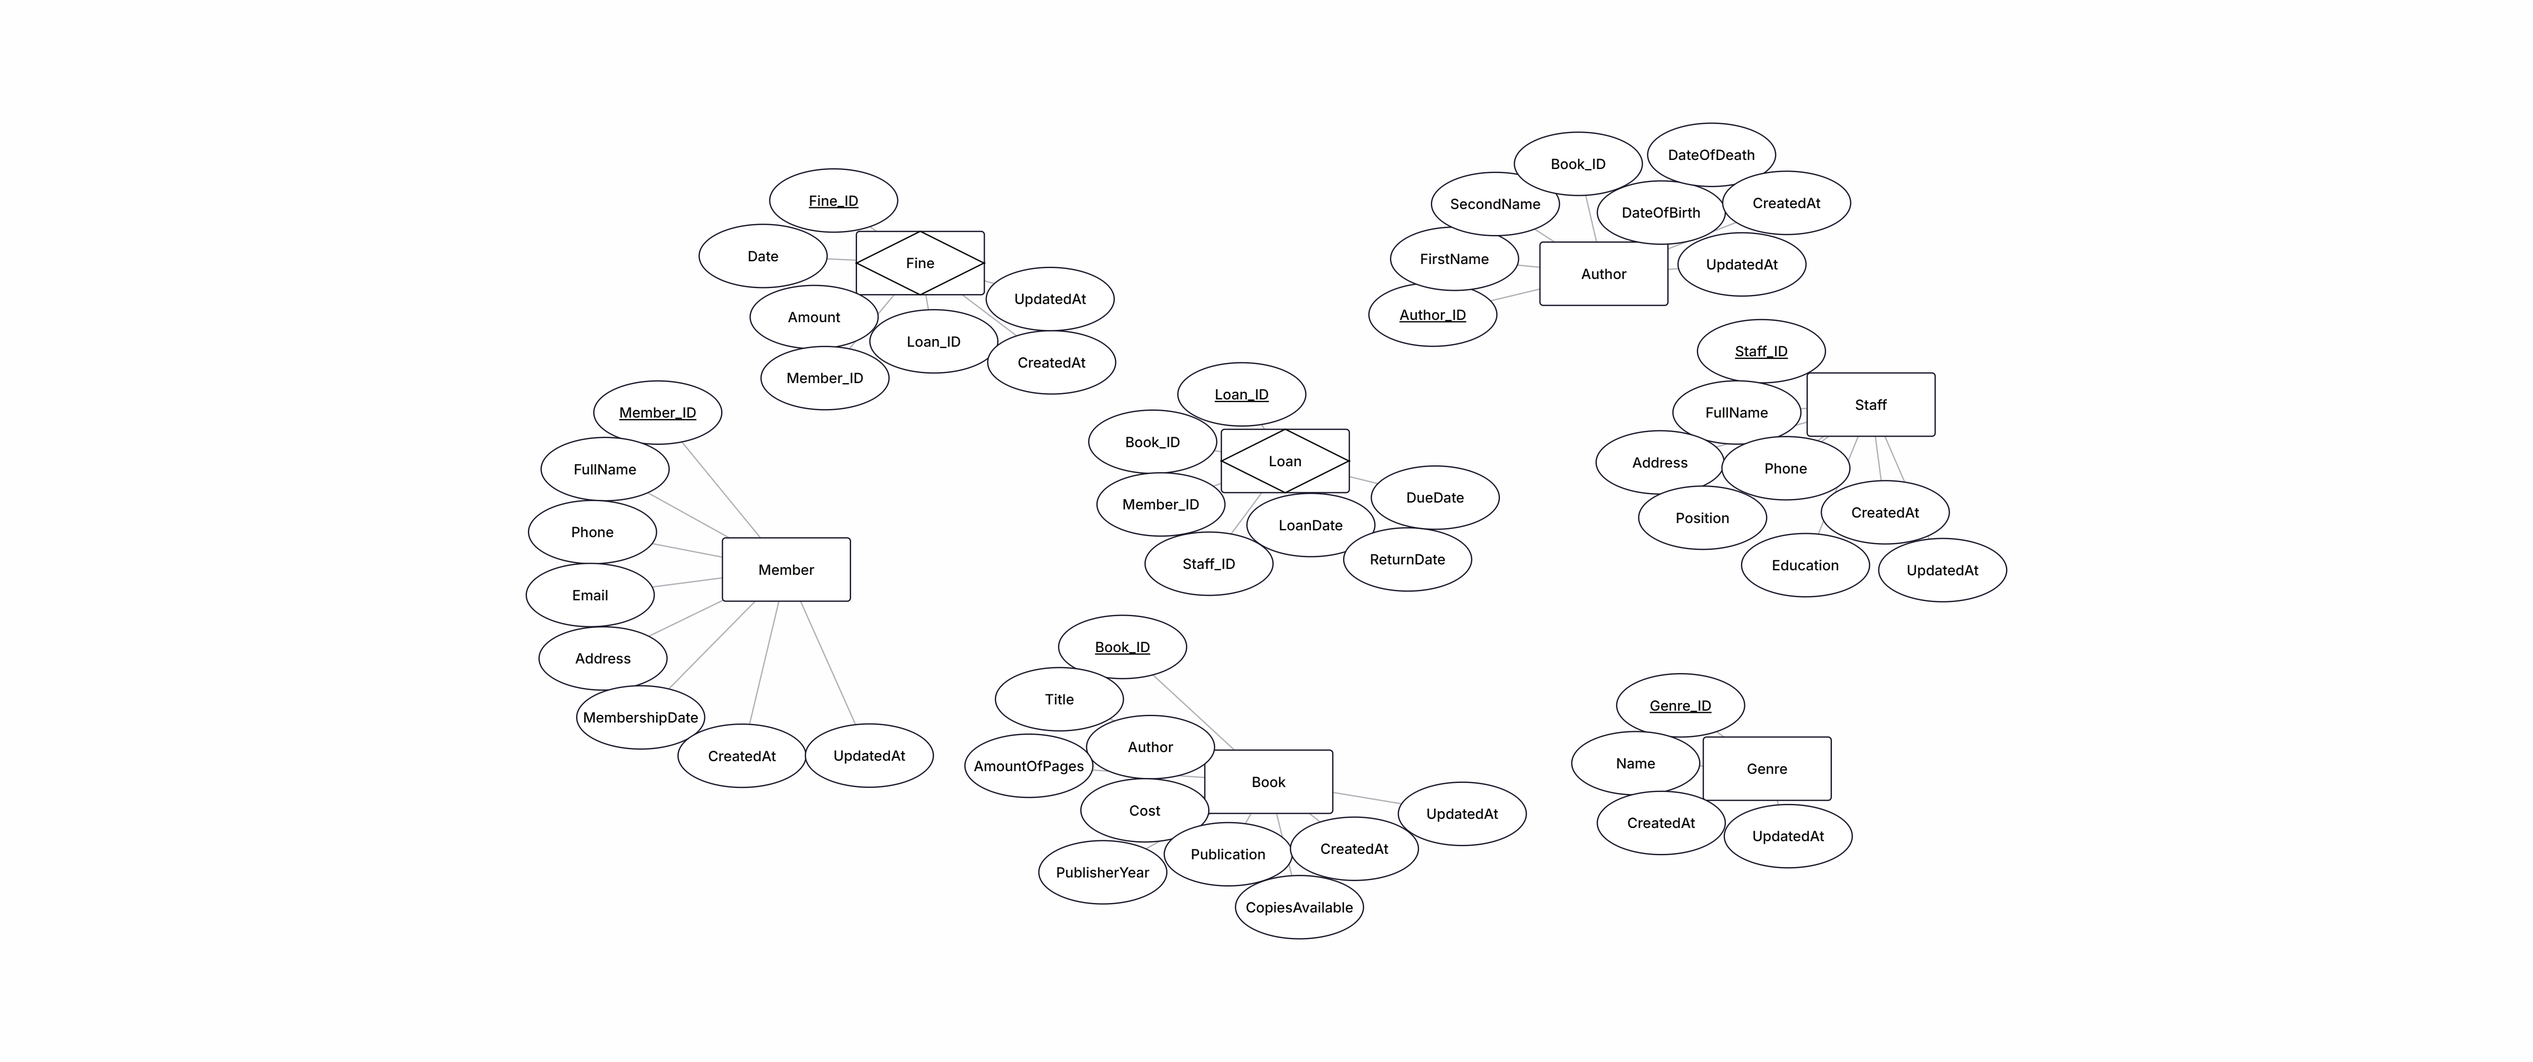
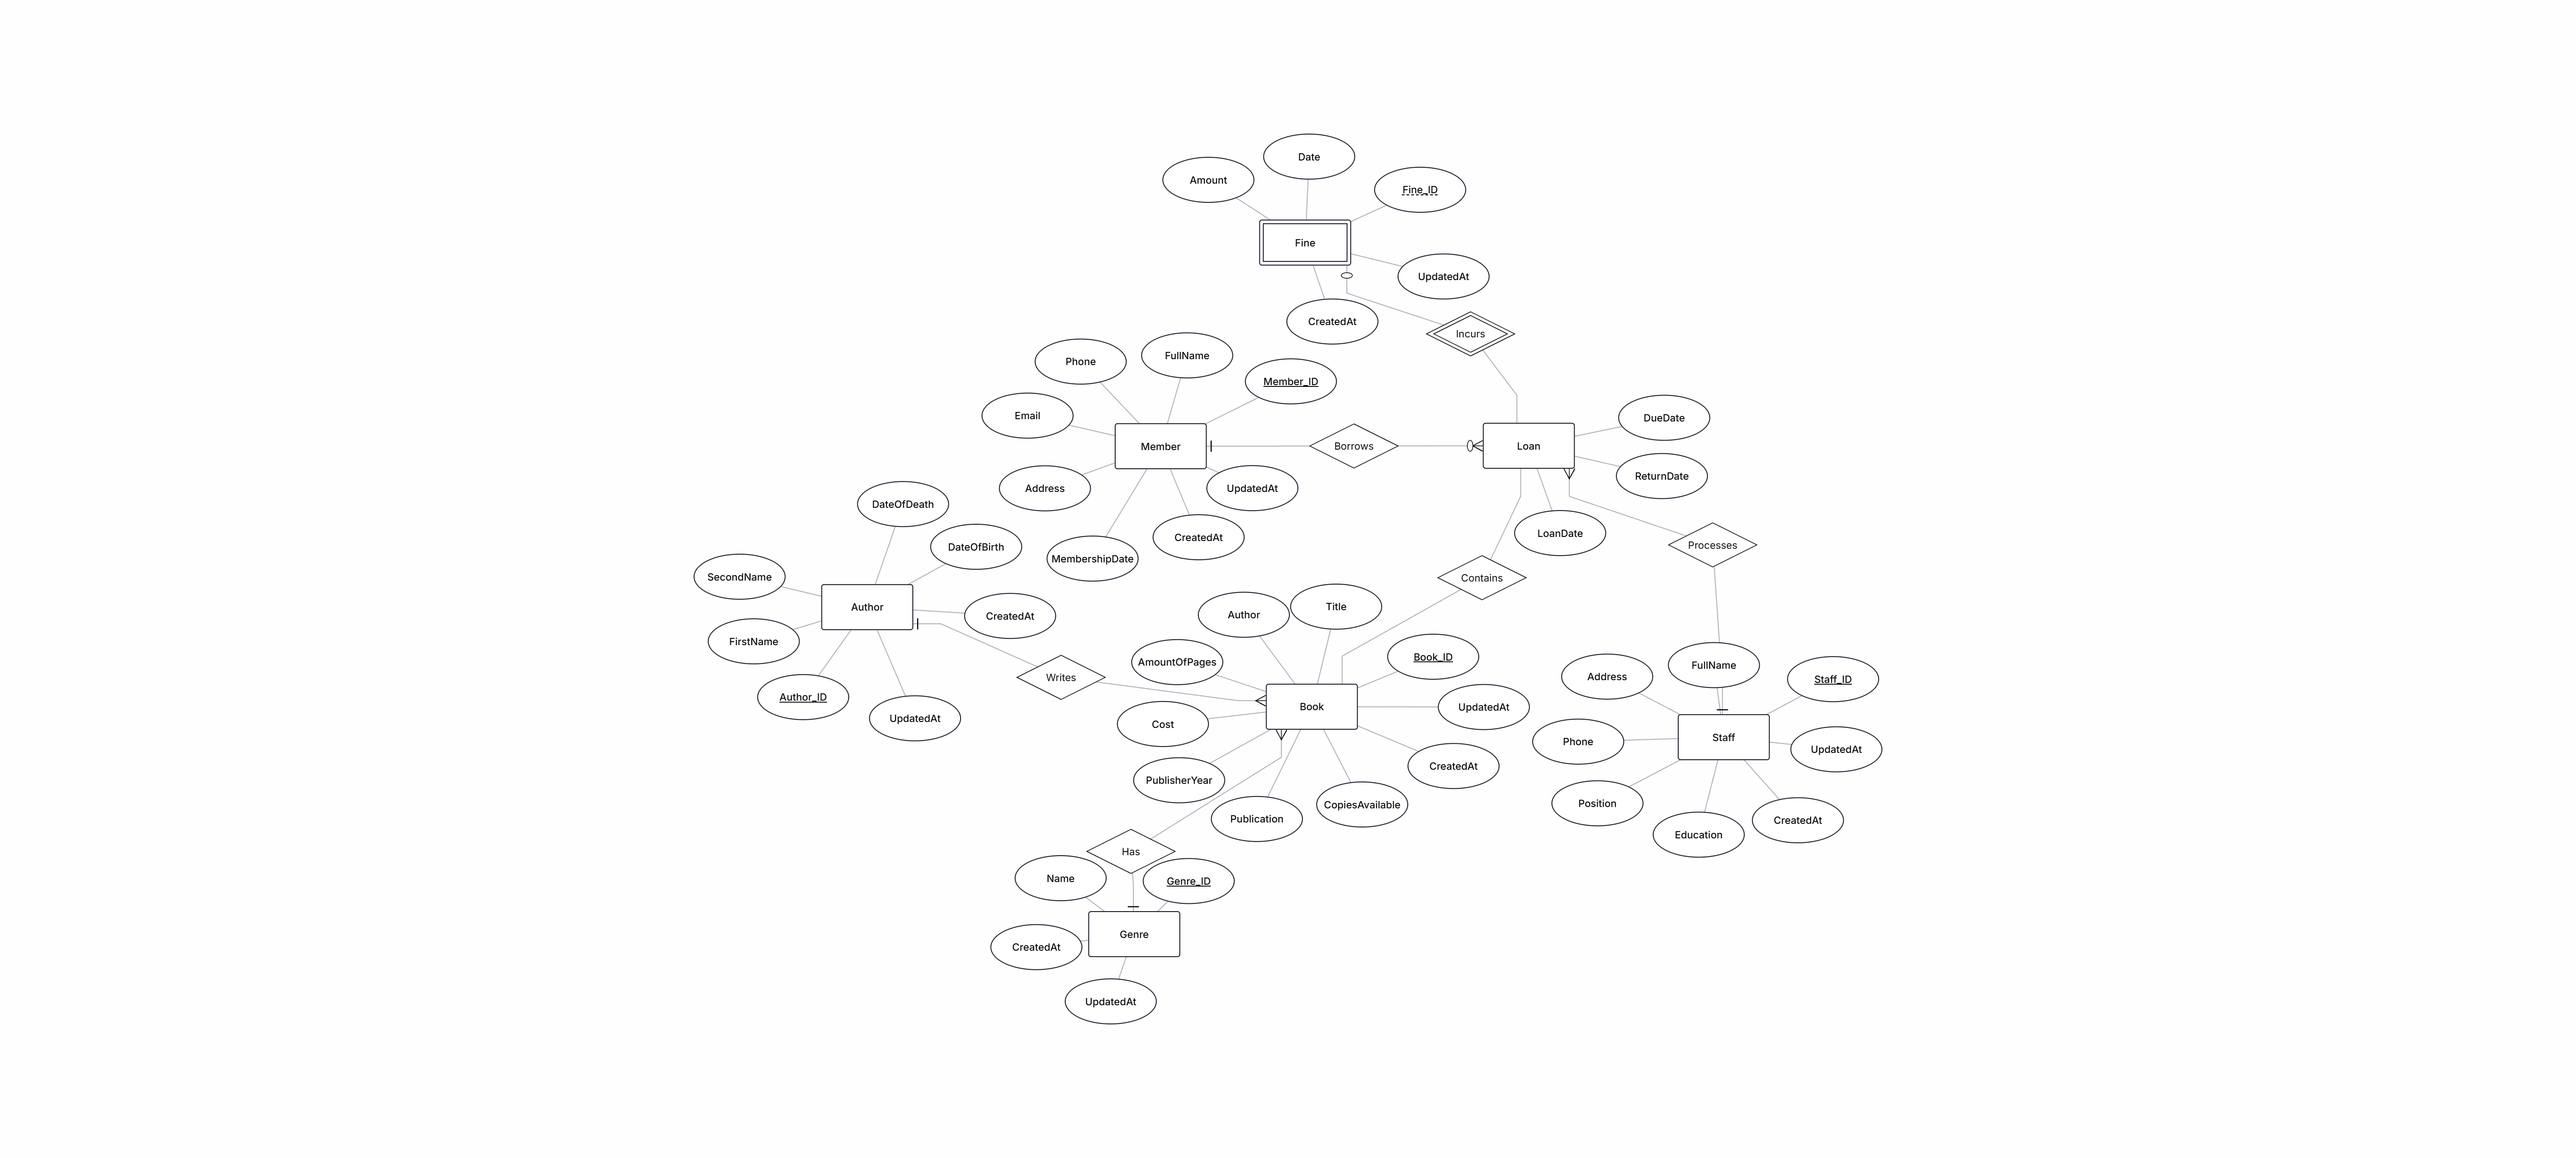
Fix

diff --git a/README.md b/README.md
@@ -33,7 +33,6 @@
 - **Book** (Книга)
   - Book_ID (PK) - унікальний ідентифікатор книги
   - Title - назва книги
-  - Genre_ID (FK) - посилання на жанр
   - AmountOfPages - кількість сторінок
   - Cost - вартість книги
   - PublisherYear - рік видання
@@ -64,31 +63,27 @@
 
 - **Loan** (Видача книги)
   - Loan_ID (PK) - унікальний ідентифікатор видачі
-  - Book_ID (FK) - посилання на книгу
-  - Member_ID (FK) - посилання на члена бібліотеки
-  - Staff_ID (FK) - посилання на співробітника, який видав книгу
   - LoanDate - дата видачі
   - ReturnDate - дата повернення (може бути NULL, якщо книга ще не повернена)
   - DueDate - термін повернення
 
 - **Fine** (Штраф)
   - Fine_ID (PK) - унікальний ідентифікатор штрафу
-  - Loan_ID (FK) - посилання на видачу
-  - Member_ID (FK) - посилання на члена бібліотеки
   - Date - дата нарахування штрафу
   - Amount - сума штрафу
   - CreatedAt - дата створення запису
   - UpdatedAt - дата оновлення запису
 
 **Зв'язки:**
-- Genre **CATEGORIZES** Book (1:N) - один жанр може містити багато книг
-- Book **IS_LOANED_IN** Loan (1:N) - одна книга може бути видана багато разів
-- Member **BORROWS** Loan (1:N) - один член може взяти багато книг
-- Staff **PROCESSES** Loan (1:N) - один співробітник може обробити багато видач
-- Loan **HAS** Fine (1:N) - одна видача може мати багато штрафів
-- Member **RECEIVES** Fine (1:N) - один член може мати багато штрафів
 
-**Примітка**: Сутність Author поки що не прив'язана до інших сутностей у проекті.
+| Зв'язок | Тип | Опис |
+|---------|-----|------|
+| Author **WRITES** Book | 1:N | Один автор пише одну або багато книг |
+| Genre **HAS** Book | 1:N | Один жанр включає одну або багато книг |
+| Member **BORROWS** Loan | 1:N | Один читач може здійснити багато позик (Optional: читач може не мати активних позик) |
+| Staff **PROCESSES** Loan | 1:N | Один співробітник оформлює багато позик |
+| Loan **CONTAINS** Book | 1:1 | Один запис про позику стосується однієї конкретної книги |
+| Loan **INCURS** Fine | 1:1 | Одна позика може спричинити один штраф (Optional: штрафу може не бути; Identifying: штраф ідентифікується через позику) |
 
 ---
 
@@ -600,8 +595,6 @@ ER-Модель                    →  Структури даних
 - **Чітке визначення первинних та зовнішніх ключів**
 - **Декларативний опис структури даних**
 - **Реалізацію у вигляді TypeScript інтерфейсів та JSON-схем**
-
-**Примітка**: Сутність Author поки що не прив'язана до інших сутностей у проекті.
 
 Всі зв'язки між сутностями реалізовані через зовнішні ключі, що забезпечує цілісність даних та дозволяє ефективно виконувати запити з об'єднанням таблиць.
 
